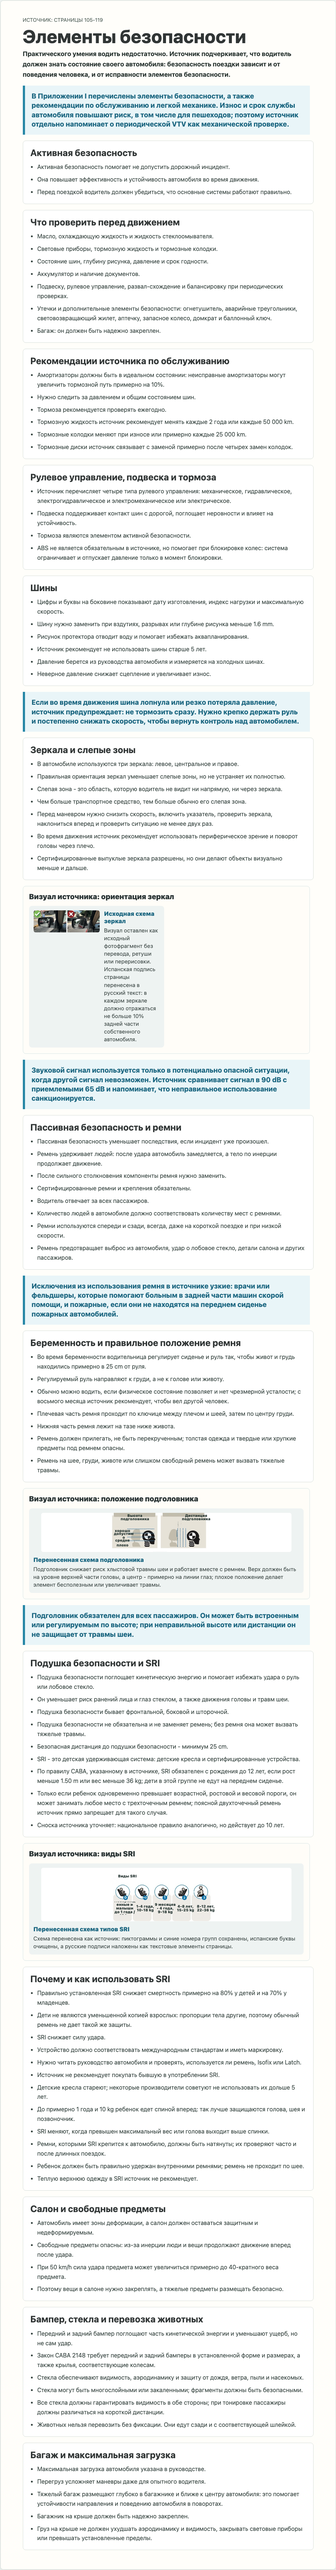
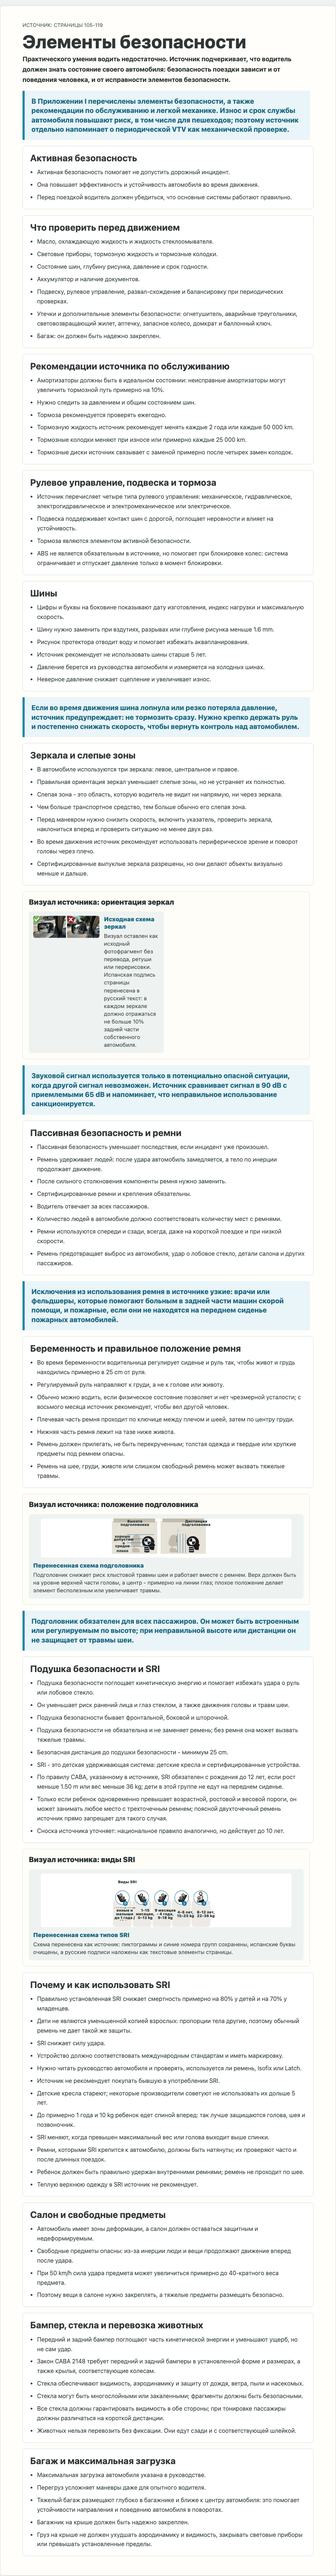
Fix Appendix I SRI plus-zero overlay range

Changed region(s): [[0.0614, 0.0, 0.8904, 0.997]]

diff --git a/src/data/manual-sections/app1-safety-elements.ts b/src/data/manual-sections/app1-safety-elements.ts
@@ -311,7 +311,7 @@ export const app1SafetyElementsSection: ManualGuideSectionContent = {
           russianOverlayLabels: [
             { id: "sri-title", textRu: "Виды SRI", xPct: 28, yPct: 9, widthPct: 13, heightPct: 10, tone: "dark-on-light" },
             { id: "sri-newborns", textRu: "Новорожденные и малыши до 1 года / 10 kg", xPct: 29.2, yPct: 64, widthPct: 8.5, heightPct: 24, tone: "dark-on-light" },
-            { id: "sri-group-0-plus", textRu: "1-4 года, 10-18 kg", xPct: 37.4, yPct: 64, widthPct: 8.5, heightPct: 24, tone: "dark-on-light" },
+            { id: "sri-group-0-plus", textRu: "1-15 месяцев, 0-13 kg", xPct: 37.4, yPct: 64, widthPct: 8.5, heightPct: 24, tone: "dark-on-light" },
             { id: "sri-group-1", textRu: "9 месяцев - 4 года, 9-18 kg", xPct: 45.4, yPct: 64, widthPct: 8.5, heightPct: 24, tone: "dark-on-light" },
             { id: "sri-group-2", textRu: "4-8 лет, 15-25 kg", xPct: 53.5, yPct: 64, widthPct: 8.5, heightPct: 24, tone: "dark-on-light" },
             { id: "sri-group-3", textRu: "8-12 лет, 22-36 kg", xPct: 61.6, yPct: 64, widthPct: 8.5, heightPct: 24, tone: "dark-on-light" }

diff --git a/specs/031-manual-document-completion/tasks.md b/specs/031-manual-document-completion/tasks.md
@@ -97,7 +97,7 @@ For each chapter-equivalent content PR:
 | Chapter 3 content | pages `57-88` | branch `codex/031-chapter-3`; PR #188, https://github.com/cucumberfalse/cabadrive/pull/188 | `49c145e9dd4f4661f99d05f79c3e55ed425d4155` | implementation content head `4f0c782505242b9cc8583af7644e5f6f44173254`; speed/highway review-fix content head `2c128758de15de388a03f090ad394e39f3c36377`; outside-CABA speed-table repair included at effective content head `f56c42d075dc92d61523301b1f84c3a33faf3a3e`; repeat Architect and Analyst validation passed for that effective head; finalizer-readable parser repair evidence head `60d366fd946841919f8740f27710d906b2a47d8d`; current/final PR head is verified by Orchestrator final guards/finalizer before merge | ready for final guards after process-memory-only row freshness repair for `PRRT_kwDOSX65IM6GzRmW`; post-effective commits are final-validation/process-memory evidence only; no Chapter 4+ content bundled | yes |
 | Chapter 4 content | pages `89-97` | branch `codex/031-chapter-4`; PR #189, https://github.com/cucumberfalse/cabadrive/pull/189 | `19fecc3a1a2ca4ab9273cdbe6833e7d6d5d7ef27` | implementation content head `2338c3a5e777cbd469f9ca23bcbbbf9dbbd4c62b`; first review-fix head before visual-fidelity repair `2f4aad4250fdd63e66495d515274293d2721a737`; prior validated effective content head `a8ecdac9daed66274ba51fb04ecbe47279aae2f6`; page-93 boundary review-fix and prior effective content head `17dd8db5872dc90586191b6e9c972cfbe681da7b`; refusal-procedure localization review-fix head `201693cc9e4a4a3e1313650c7f6ca57d613af1b8`; strict infographic visual-rule repair effective content head `9b5b74b9b19b756225ffd50b2ba1df4732c56ab3`; final-validation evidence transport head `528d8eab9e57b660096e95f6dcabc43a8750835f`; motorcycle-passenger alcohol-limit scope repair effective content head `3de005c1b46ea8b28b96b6ec46d4d51d61719dae`; final-validation evidence transport head before overlay-label repair `1c826ed8b518764749c4d146f7147fdf260f2146`; overlay-label visual-rule repair for Codex P2 `3352010484`; overlay-label mobile clipping repair for Review Agent comment `3352219633`; alcohol-effects localization repair for Codex P2 `3352233947`; sleep/fatigue remedy localization repair for Review Agent comment `3352327144`; broader learner-facing localization audit for Review Agent comment `3352354749`; current effective content head `4e819cfd80ebf09b4d3db560a6bc3b57766ef39a` | Chapter 4 content and review fixes for `PRRT_kwDOSX65IM6G1K3A`, `PRRT_kwDOSX65IM6G1LSI`, visual-fidelity thread `PRRT_kwDOSX65IM6G1aYu`, Codex review comment `3350790136`, Codex P2 comments `3351081820`, `3351219753`, `3351329538`, `3351663509`, `3352010484`, `3352233947`, and Review Agent comments `3352219633`, `3352327144`, and `3352354749` are implemented and locally verified in this PR follow-up; prior final validation/evidence for pre-repair heads including `3de005c1b46ea8b28b96b6ec46d4d51d61719dae`, `d3d712ce488560c3d3747cbc54d1489a84774cbe`, `2af2a57520f68f8090376699615a4cab41885d2d`, `fa568d5b1aec3e2e546e44d1ba43c39418ff731b`, and `adfcbbbdac50658c1a80ef8e22dd88554c579a5e` is superseded by fresh Architect validation for effective content head `4e819cfd80ebf09b4d3db560a6bc3b57766ef39a`; no Chapter 5+ content bundled | yes |
 | Chapter 5 content | pages `98-103` | branch `codex/031-chapter-5`; PR #190, https://github.com/cucumberfalse/cabadrive/pull/190 | `f3b756315141f859f097e6af47d088c16ccac910` | implementation content head `fa6983a6be8069b4bb4aaa51140a218c6ada3096`; Review Agent P2 `3352682015` localization repair head reported by IA handoff; automated Codex P2 visual/boundary repairs `3352716346` and `3352716350` head reported by IA handoff | ready PR open; Chapter 5 implementation, Review Agent P2 localization repair, and automated Codex visual/boundary repairs complete locally; fresh final validation is required on the new repair head; no Appendix/front-matter content bundled | yes |
-| Appendix I content | pages `104-122` | branch `codex/031-appendix-i`; PR #191, https://github.com/cucumberfalse/cabadrive/pull/191 | `b63639a20e413f339266e2e91ce63c377377230a` | implementation content head `e108ba86293b3ff0d3d5443aaf7f9b99f8d8d550`; first process-memory head `794a80c1bad67c7f94488e396ae357d36fc89963`; Review Agent P2 localization repair head `e90e3e516137bab021d5acaf64a07e2be7f8dd8a`; AI review SRI all-threshold/screenshot/title repair head `197971dc3ce4eac35357d5077c37e6bd5f59ffde`; tire-blowout page `109` repair head `77eefbf268236ba78a0d9f55e8de8f6001a7301c`; evidence-only head `43964bd8ecda9bc4d0cc842bd50c777d1a408270`; page `119` luggage/source-ownership repair head `2cc142de062425f4ebf2be56f95d73faa95ff43d`; page `119` top-level shared-ownership repair head `01c5db6158c992ed9098b50a3d323efabbe9bf9f`; mirror photo-only crop repair head `d27afdb68af4826a6645045ef27324ca24aad53f`; effective content head `7b8ffb3f58e8c91b660ea2d9f952c509ffff98f5` includes SRI `+0` overlay range repair; finalizer-readable process/evidence head `8f3eced213947d68dd644e6707ce6349054f93a1` | ready PR open; Appendix I implementation and review/AI fixes complete locally through page `119` shared source ownership, mirror photo-only crop, and SRI `+0` overlay range repair; prior Architect/Analyst validation for `77eefbf268236ba78a0d9f55e8de8f6001a7301c` is stale after post-validation product/content changes; fresh Architect validation passed at `2026-06-04T06:55:53Z` and fresh Analyst validation passed at `2026-06-04T07:00:37Z` for effective content head `7b8ffb3f58e8c91b660ea2d9f952c509ffff98f5`; finalizer-readable process/evidence head `8f3eced213947d68dd644e6707ce6349054f93a1` records final-validation evidence in `tasks.md` and `feature-request.md`; current/final PR head verification remains Orchestrator/finalizer-owned via read-only guard and `pnpm run pr:finalize -- --expected-head <actual-current-pr-head>` before merge; later post-effective commits must remain final-validation/process evidence only in `tasks.md` and `feature-request.md`; no Appendix II/III/IV or front-matter content bundled | yes |
+| Appendix I content | pages `104-122` | branch `codex/031-appendix-i`; PR #191, https://github.com/cucumberfalse/cabadrive/pull/191 | `b63639a20e413f339266e2e91ce63c377377230a` | implementation content head `e108ba86293b3ff0d3d5443aaf7f9b99f8d8d550`; first process-memory head `794a80c1bad67c7f94488e396ae357d36fc89963`; Review Agent P2 localization repair head `e90e3e516137bab021d5acaf64a07e2be7f8dd8a`; AI review SRI all-threshold/screenshot/title repair head `197971dc3ce4eac35357d5077c37e6bd5f59ffde`; tire-blowout page `109` repair head `77eefbf268236ba78a0d9f55e8de8f6001a7301c`; evidence-only head `43964bd8ecda9bc4d0cc842bd50c777d1a408270`; page `119` luggage/source-ownership repair head `2cc142de062425f4ebf2be56f95d73faa95ff43d`; page `119` top-level shared-ownership repair head `01c5db6158c992ed9098b50a3d323efabbe9bf9f`; mirror photo-only crop repair head `d27afdb68af4826a6645045ef27324ca24aad53f`; prior effective content head `7b8ffb3f58e8c91b660ea2d9f952c509ffff98f5`; finalizer-readable process/evidence head `8f3eced213947d68dd644e6707ce6349054f93a1` | ready PR open but final validation is stale after AI Review P2 `3354284239` SRI `+0` overlay product/content repair; Appendix I implementation and review/AI fixes now include page `119` shared source ownership, mirror photo-only crop, and corrected SRI `+0` overlay source range `1-15 месяцев, 0-13 kg`; prior Architect/Analyst validation for `77eefbf268236ba78a0d9f55e8de8f6001a7301c` and later fresh validation for `7b8ffb3f58e8c91b660ea2d9f952c509ffff98f5` are stale after this post-validation content change; current/final PR head verification remains Orchestrator/finalizer-owned via read-only guard and `pnpm run pr:finalize -- --expected-head <actual-current-pr-head>` before merge; no Appendix II/III/IV or front-matter content bundled | yes |
 | Appendix II content | pages `123-151` | pending | pending | pending | pending | yes |
 | Appendix III content | pages `152-183` | pending | pending | pending | pending | yes |
 | Appendix IV content | pages `184-200` | pending | pending | pending | pending | yes |
@@ -114,7 +114,7 @@ For each chapter-equivalent content PR:
 | Chapter 3 | `57-88` | One chapter PR covering `ch3-priority-of-rules`, `ch3-right-of-way`, `ch3-lights`, `ch3-speed`, `ch3-turns`, `ch3-overtaking`, `ch3-highways`, `ch3-adverse-conditions`, and `ch3-stopping-parking`; page `57` divider skipped | implemented in branch `codex/031-chapter-3`; ready PR #188 open with pushed speed/highway review-fix head `2c128758de15de388a03f090ad394e39f3c36377` |
 | Chapter 4 | `89-97` | One chapter PR covering `ch4-alcohol-drugs`, `ch4-sleep-fatigue`, `ch4-stress`, and `ch4-distractions`; page `89` divider skipped; page `93` shared by alcohol/drugs and sleep/fatigue; page `94` shared by sleep/fatigue and stress; page `95` shared by stress recommendations and distractions with direct distractions navigation starting on page `95` | ready PR #189 at https://github.com/cucumberfalse/cabadrive/pull/189 from branch `codex/031-chapter-4`; implementation content head `2338c3a5e777cbd469f9ca23bcbbbf9dbbd4c62b`; page-93 boundary, refusal-procedure localization, stress-localization, strict infographic visual-rule repairs, Codex P2 `3351663509` motorcycle-passenger alcohol-limit scope repair, Codex P2 `3352010484` overlay-label visual-rule repair, Review Agent comment `3352219633` overlay-label mobile clipping repair, Codex P2 `3352233947` alcohol-effects localization repair, Review Agent comment `3352327144` sleep/fatigue remedy localization repair, and Review Agent comment `3352354749` broader learner-facing localization audit repair are included at effective content head `4e819cfd80ebf09b4d3db560a6bc3b57766ef39a`; ready for Analyst final validation after Architect validation at this head and later evidence transport/current-head guard |
 | Chapter 5 | `98-103` | One chapter PR covering `ch5-attitude-types`, `ch5-equal-society`, `ch5-gender-violence-prevention`, and `ch5-anticipatory-efficient-driving`; page `98` divider skipped; page `99` shared by attitude types and equality; page `100` shared by equality and gender-violence support; page `101` shared by gender-violence support and preventive/efficient driving | ready PR #190 open at https://github.com/cucumberfalse/cabadrive/pull/190 from branch `codex/031-chapter-5`; implementation content head `fa6983a6be8069b4bb4aaa51140a218c6ada3096`; current PR head reported by IA handoff |
-| Appendix I | `104-122` | One chapter-equivalent PR covering `app1-safety-elements`, `app1-other-required-safety-elements`, and `app1-recommended-safety-elements`; page `104` divider skipped; page `119` shared by safety-elements luggage/max-load masks and other-required heading/content | ready PR #191 open at https://github.com/cucumberfalse/cabadrive/pull/191 from branch `codex/031-appendix-i`; effective content head `7b8ffb3f58e8c91b660ea2d9f952c509ffff98f5` includes implementation, localization repairs, SRI all-threshold/title/screenshot repair, tire-blowout page `109` repair, page `119` shared ownership repair, mirror photo-only crop repair, and SRI `+0` overlay range repair; fresh Architect validation passed at `2026-06-04T06:55:53Z` and fresh Analyst validation passed at `2026-06-04T07:00:37Z`; finalizer-readable process/evidence head `8f3eced213947d68dd644e6707ce6349054f93a1` records final-validation evidence in `tasks.md` and `feature-request.md`; current/final PR head verification remains Orchestrator/finalizer-owned via read-only guard and expected-head finalizer before merge |
+| Appendix I | `104-122` | One chapter-equivalent PR covering `app1-safety-elements`, `app1-other-required-safety-elements`, and `app1-recommended-safety-elements`; page `104` divider skipped; page `119` shared by safety-elements luggage/max-load masks and other-required heading/content | ready PR #191 open at https://github.com/cucumberfalse/cabadrive/pull/191 from branch `codex/031-appendix-i`; prior effective content head `7b8ffb3f58e8c91b660ea2d9f952c509ffff98f5` includes implementation, localization repairs, SRI all-threshold/title/screenshot repair, tire-blowout page `109` repair, page `119` shared ownership repair, mirror photo-only crop repair, and earlier SRI `+0` overlay range repair; fresh Architect validation at `2026-06-04T06:55:53Z` and fresh Analyst validation at `2026-06-04T07:00:37Z` are stale after AI Review P2 `3354284239` corrected the SRI `+0` overlay to source range `1-15 месяцев, 0-13 kg`; current/final PR head verification remains Orchestrator/finalizer-owned via read-only guard and expected-head finalizer before merge |
 | Appendix II | `123-151` | One chapter-equivalent PR | pending |
 | Appendix III | `152-183` | One chapter-equivalent PR | pending |
 | Appendix IV | `184-200` | One chapter-equivalent PR; source-as-is signs/markings | pending |
@@ -209,8 +209,10 @@ For each chapter-equivalent content PR:
 - Review-fix visual/source scope, PR #191 `3353715772`: this follow-up changed only registry metadata, source-fidelity checker assertions, focused tests, and process memory. No runtime learner DOM, screenshots, source crops, source page images, photos, traffic signs, road markings, source-as-is mirror photo, or transferred infographic assets were modified; the intentionally untracked duplicate page `119` safety-elements crop remains preserved and unstaged.
[1 lines of base64/hex data omitted]
 - AI Review-fix visual/source scope, PR #191 `3353724247`: only the mirror source/runtime crop and `app1-safety-elements` desktop/mobile screenshots were regenerated. The photo pixels were not translated, retouched, relabeled, recolored, redrawn, masked, inpainted, or otherwise modified; the change removes surrounding non-photo Spanish page text by cropping to the protected source visual. No traffic signs, road markings, headrest/SRI transferred infographics, page source renders, or unrelated Appendix I assets were modified. The intentionally untracked duplicate page `119` safety-elements crop remains preserved and unstaged.
-- AI Review-fix decision, PR #191 automated comment `3353854332`: the SRI transferred-infographic Russian overlay label for source group `+0` now preserves the full official source range `1-4 años` / `10-18 kg` as `1-4 года, 10-18 kg`; the stale shortened label `1 год, 10-18 kg` is rejected by focused tests.
+- AI Review-fix decision, PR #191 automated comment `3353854332`: the earlier SRI transferred-infographic Russian overlay label for source group `+0` was changed from the stale shortened label `1 год, 10-18 kg` to `1-4 года, 10-18 kg`; this later proved to be the wrong source-card range and is superseded by AI Review-fix `3354284239`.
 - AI Review-fix visual/source scope, PR #191 `3353854332`: this follow-up changes only selectable Russian overlay text/evidence for the transferred SRI infographic. The SRI PNG pixels, source crop, source page render, pictograms, blue group numerals, geometry, and existing glyph-level Spanish cleanup/background restoration remain unchanged; no photo, traffic sign, road marking, or unrelated Appendix I visual asset was modified. The intentionally untracked duplicate page `119` safety-elements crop remains preserved and unstaged.
+- AI Review-fix decision, PR #191 automated comment `3354284239`: the page `115` x5 source crop `page-115-sri-types-source-crop.jpg` was visually rechecked and the `+0` rear-facing card reads approximately `1 a 15 meses` and `0 a 13 kg`. The `sri-group-0-plus` selectable Russian DOM overlay now reads `1-15 месяцев, 0-13 kg`, and focused tests reject the stale toddler/group-1 range `1-4 года, 10-18 kg` for that overlay.
+- AI Review-fix visual/source scope, PR #191 `3354284239`: this follow-up changed only selectable Russian overlay text, generated registry label metadata, focused tests, `app1-safety-elements` desktop/mobile screenshots, and process memory. Photos, traffic signs, road markings, source crops, source page images, protected source-as-is visuals, and transferred infographic PNG pixels were not modified; the SRI PNG remains source-crop-based with `visibleSpanish=false`, `1220x260`, and unchanged source-crop provenance. Prior final Architect/Analyst validation for effective content head `7b8ffb3f58e8c91b660ea2d9f952c509ffff98f5` is stale because this is a post-validation product/content change. The intentionally untracked duplicate page `119` safety-elements crop remains preserved and unstaged.
 - Review-fix decision, PR #191 Review Agent process-memory comment `3353916711`: the Appendix I Cycle PR Set row and Source Unit Inventory row now record current effective content head `7b8ffb3f58e8c91b660ea2d9f952c509ffff98f5`, including the recent page `119` source-ownership/shared-ownership repairs, mirror photo-only crop repair, and SRI `+0` overlay range repair. This is process-memory only after the effective content head; fresh Architect validation for `7b8ffb3f58e8c91b660ea2d9f952c509ffff98f5` is recorded at `2026-06-04T06:55:53Z`.
 - Appendix I current validation/feedback state after Review Agent process-memory comment `3353916711`: prior Architect/Analyst final validation for effective content head `77eefbf268236ba78a0d9f55e8de8f6001a7301c` is stale because subsequent page `119`, mirror, and SRI overlay product/content changes landed after it. No unresolved Implementation Agent feedback or known issue remains from this IA follow-up; fresh Architect validation for effective content head `7b8ffb3f58e8c91b660ea2d9f952c509ffff98f5` is recorded at `2026-06-04T06:55:53Z`.
 - Validation staleness notice, PR #190: Review Agent comment `3352682015` required a post-PR non-evidence content/test/process repair after current head `a21074d42a3c10466288856a55c4e7207b0c3386`; therefore any final validation or final-validation evidence for `a21074d42a3c10466288856a55c4e7207b0c3386` is stale for finalization. The next pushed localization repair head must become the new effective content head and receive fresh Architect then Analyst final validation before finalization.
@@ -422,7 +424,7 @@ For each chapter-equivalent content PR:
 - PR #191 page `119` luggage-boundary AI Review-fix broader verification, `2026-06-04T05:24:15Z`: `node scripts/check-feature-memory.mjs --worktree` passed; `git diff --check` passed; and full `pnpm run preflight` passed, including feature-memory gate, repository baseline check, content validation with `sharedSourcePages: [55,93,94,95,99,100,101,119]`, `389` unit tests, production build, service-worker generation, and `78` Playwright tests with `0` failures. The existing Vite large chunk warning appeared during builds and remains non-fatal/pre-existing.
 - PR #191 page `119` registry shared-ownership Review Agent follow-up verification, `2026-06-04T05:31:48Z`: `node scripts/manual-guide-source-fidelity.mjs` passed with registry/evidence shared-page parity and `sharedSourcePages: [55,93,94,95,99,100,101,119]`; `node --test tests/content-manual-guide-chapters.test.mjs` passed with `80` tests and `0` failures; `pnpm exec tsc --noEmit` passed; `node scripts/check-feature-memory.mjs --worktree` passed; `git diff --check` passed; and full `pnpm run preflight` passed, including feature-memory gate, repository baseline check, content validation, `389` unit tests, production build, service-worker generation, and `78` Playwright tests with `0` failures. No screenshot regeneration was needed because the visible runtime DOM did not change.
[3 lines of base64/hex data omitted]
 - Protected visual confirmation: no Appendix I photo, traffic sign, road-marking visual, source page image, or transferred infographic was translated, relabeled, recolored, retouched, masked, inpainted, reconstructed, or redrawn. The mirror validation/runtime crop was narrowed to the protected photo collage only to exclude surrounding Spanish body text; the photo crop itself remains source-as-is and byte-identical between validation and runtime. The only Appendix I Spanish cleanup is the headrest/SRI transferred-infographic glyph cleanup from source crops.
 - Final handoff evidence: `git diff --cached --check` is run before each commit, and the final pushed PR head is reported by Implementation Agent handoff.
 
@@ -728,7 +730,7 @@ For each chapter-equivalent content PR:
 - Architect validation: finalizer-readable process/evidence head 8f3eced213947d68dd644e6707ce6349054f93a1 is final-validation evidence-only after effective content head 7b8ffb3f58e8c91b660ea2d9f952c509ffff98f5; post-effective delta is limited to tasks.md and feature-request.md process memory, and current/final PR head verification remains Orchestrator/finalizer-owned before merge.
 - Architect validation: PR #191 Appendix I scope validated for pages 104-122 only; page 104 is divider-only; app1-safety-elements owns pages 105-118 plus page 119 Equipaje/luggage and maximum-load paragraphs before the next heading; app1-other-required-safety-elements starts on page 119 at Otros elementos de seguridad obligatorios mask 10 and continues page 120; app1-recommended-safety-elements covers pages 121-122; top-level and evidence sharedSourcePageOwnership include page 119.
 - Architect validation: strict visual requirements are satisfied for Appendix I: x5/equivalent high-resolution source evidence is recorded; protected photos, signs, and road markings are unmodified; the mirror runtime visual is cropped to the protected photo collage only and remains source-as-is/byte-identical between runtime and validation crop with no visible Spanish body text in the image; transferred headrest and SRI infographics remain source-image based with glyph/antialias-level Spanish cleanup, restored background, no redraw or broad plates, preserved source structure/numerals/pictograms, and selectable Russian labels/explanation.
-- Architect validation: SRI +0 overlay label preserves the source range as 1-4 года, 10-18 kg while SRI PNG/source-crop pixels remain unchanged.
+- Architect validation stale after AI Review P2 `3354284239`: the previous SRI +0 overlay validation text named `1-4 года, 10-18 kg`, but that range belongs to another source card. The current IA follow-up corrects the selectable overlay to `1-15 месяцев, 0-13 kg` while leaving SRI PNG/source-crop pixels unchanged.
 - Architect validation: review and AI fixes are satisfied for Russian learner-facing localization, exact Elementos de seguridad recomendables traceability, SRI all-threshold rule, screenshot refreshes, page 109 Pinchaduras tire-blowout guidance, page 119 shared ownership/registry parity, mirror photo-only crop, and SRI +0 overlay range.
 - Architect validation: required non-AI checks were green before final-validation evidence transport, and finalizer-readable process/evidence head 8f3eced213947d68dd644e6707ce6349054f93a1 is final-validation evidence-only in tasks.md and feature-request.md; Review Agent pass 4425379515 verified the prior process-memory-only delta, refreshed Architect/Analyst validation evidence addresses AI Review process comments 3353756978, 3353929476, 3354062899 plus Review Agent process-memory issue 3353916711, and actual current/final PR head verification remains Orchestrator-owned through read-only guard and finalizer expected-head before merge.
 - Architect validation: no unresolved Implementation Agent feedback remains for PR #191 Appendix I scope; no unresolved known issue lacks owner decision; no Analyst feedback requires Architect action.
@@ -806,9 +808,9 @@ For each chapter-equivalent content PR:
 
 ## Implementation Agent Feedback
 
-- Implementation Agent feedback for Appendix I scope after Review Agent P2 comments `3353239049`, `3353239050`, `3353239052`, `3353715772`, and `3353916711`, and automated AI Review comments `3353344745`, `3353281144`, `3353238651`, `3353459655`, `3353643677`, `3353724247`, and `3353854332`: fully disposed after fresh Architect final validation for effective content head `7b8ffb3f58e8c91b660ea2d9f952c509ffff98f5`. Page `104` is divider-only; pages `105-122` are implemented as the assigned Appendix I content slice; no Appendix II/III/IV/front-matter or unrelated corrections are bundled. Learner-facing Appendix I text is localized to Russian except official abbreviations/units; the SRI regular-seat restriction now requires age, height, and weight thresholds to all be exceeded; the page `109` tire-blowout callout now advises no immediate braking, firm steering, and gradual slowing; page `119` luggage/max-load guidance is owned by `app1-safety-elements` before the `Otros elementos de seguridad obligatorios` heading, and the other-required route starts at that heading with top-level shared-page ownership recorded. Source Spanish remains in `sourceTextEs`/evidence; recommended-safety traceability uses `Elementos de seguridad recomendables`. Protected mirror photo is cropped source-as-is to the mirror photo collage only with Spanish body/caption text translated outside the image; headrest and SRI infographics are source-crop-based transferred PNGs with glyph/antialias-level Spanish cleanup, no readable Spanish, preserved source structure/numerals/pictograms, no broad plate-like artifacts, and selectable Russian labels/explanation, including the corrected SRI `+0` overlay range `1-4 года, 10-18 kg`. Local untracked duplicate `content/validation/manual-guide/app1-safety-elements/page-119-safety-elements-source-crop.jpg` is preserved but not staged because the tracked same-hash page `119` crop supplies shared-page evidence. Architect disposition: disposed; no other Appendix I product action requested.
+- Implementation Agent feedback for Appendix I scope after Review Agent P2 comments `3353239049`, `3353239050`, `3353239052`, `3353715772`, and `3353916711`, and automated AI Review comments `3353344745`, `3353281144`, `3353238651`, `3353459655`, `3353643677`, `3353724247`, `3353854332`, and `3354284239`: prior fresh Architect final validation for effective content head `7b8ffb3f58e8c91b660ea2d9f952c509ffff98f5` is stale after the SRI `+0` overlay content repair. Page `104` is divider-only; pages `105-122` are implemented as the assigned Appendix I content slice; no Appendix II/III/IV/front-matter or unrelated corrections are bundled. Learner-facing Appendix I text is localized to Russian except official abbreviations/units; the SRI regular-seat restriction now requires age, height, and weight thresholds to all be exceeded; the page `109` tire-blowout callout now advises no immediate braking, firm steering, and gradual slowing; page `119` luggage/max-load guidance is owned by `app1-safety-elements` before the `Otros elementos de seguridad obligatorios` heading, and the other-required route starts at that heading with top-level shared-page ownership recorded. Source Spanish remains in `sourceTextEs`/evidence; recommended-safety traceability uses `Elementos de seguridad recomendables`. Protected mirror photo is cropped source-as-is to the mirror photo collage only with Spanish body/caption text translated outside the image; headrest and SRI infographics are source-crop-based transferred PNGs with glyph/antialias-level Spanish cleanup, no readable Spanish, preserved source structure/numerals/pictograms, no broad plate-like artifacts, and selectable Russian labels/explanation, including the current corrected SRI `+0` overlay range `1-15 месяцев, 0-13 kg`. Local untracked duplicate `content/validation/manual-guide/app1-safety-elements/page-119-safety-elements-source-crop.jpg` is preserved but not staged because the tracked same-hash page `119` crop supplies shared-page evidence. Architect disposition: stale pending fresh validation after this IA follow-up; no other Appendix I product action requested.
 - Prior Architect disposition for PR #191 at `77eefbf268236ba78a0d9f55e8de8f6001a7301c` is stale after post-validation page `119`, mirror, and SRI overlay content repairs; superseded by fresh Architect validation for effective content head `7b8ffb3f58e8c91b660ea2d9f952c509ffff98f5`.
-- No unresolved Implementation Agent feedback. Architect disposition: disposed; no action needed for PR #191 at `7b8ffb3f58e8c91b660ea2d9f952c509ffff98f5`.
+- No unresolved Implementation Agent product feedback remains beyond the expected need for fresh Architect/Analyst validation after AI Review P2 `3354284239`; prior disposition for PR #191 at `7b8ffb3f58e8c91b660ea2d9f952c509ffff98f5` is stale for finalization.
 - Implementation Agent feedback for Chapter 5 scope after Review Agent comment `3352682015` and automated Codex comments `3352716346` / `3352716350`: none unresolved. Page `98` is divider-only; pages `99-103` are implemented as the assigned Chapter 5 content slice; page `99`, page `100`, and page `101` shared boundaries are recorded and tested; page `101` now coherently records that gender-violence support masks `11-25` continue after the preventive-driving heading at mask `09`; protected page `103` photo/quote remains source-as-is with Russian explanation outside the image; the page `100` mobility infographic is a source-crop-based transferred PNG with glyph-letter-level Spanish cleanup, `visibleSpanish=false`, source-crop provenance, cleaned `54%`/`50%`/`30%` row glyph fragments, and selectable Russian DOM labels over the cleaned infographic surface; the mixed-language preventive-driving title is localized to Russian and covered by regression tests. No Appendix/front-matter or unrelated content is bundled. Architect disposition: no action requested.
 - No unresolved Implementation Agent feedback. Architect disposition: disposed; no action needed for PR #190 at `46132199fb12a2590032b81d6c9b9ebc86efab44`.
 - Implementation Agent feedback for Chapter 4 scope after PR #189 review fixes through Review Agent comment `3352354749`: fully disposed. Architect disposition: disposed; no action needed for PR #189 at `4e819cfd80ebf09b4d3db560a6bc3b57766ef39a`. Page `89` remains divider-only; pages `90-97` are implemented as the assigned Chapter 4 content slice; page `93` alcohol/drugs-to-sleep/fatigue boundary, page `94` sleep/fatigue-to-stress boundary, and page `95` stress-to-distractions/direct-route boundary are recorded and tested. Visual/source-fidelity evidence keeps the page `90` drug-test photo and page `97` photo/quote as protected source-as-is x5 runtime crops with Russian learner explanation outside images, while the page `91` alcohol-limit and page `95` distraction-panel infographics are source-crop-based transferred PNGs with glyph-letter-level Spanish cleanup, `visibleSpanish=false`, source-crop provenance, selectable Russian labels over the cleaned infographic surfaces, and selectable Russian explanation/table content outside images. PR #189 review fixes for alcohol-limit rows, including the `acompañantes en motovehículos` legal scope, sleep/fatigue Russian wording, visual-fidelity thread `PRRT_kwDOSX65IM6G1aYu`, Codex review comments `3350790136`, `3351081820`, `3351219753`, `3351329538`, `3351663509`, `3352010484`, `3352233947`, and Review Agent comments `3352219633`, `3352327144`, and `3352354749` are implemented, locally verified, and included at the validated effective content head.
@@ -1858,7 +1860,7 @@ Architect validation evidence: PR #191 Appendix I scope covers source pages 104-
 
 Architect validation evidence: Strict visual rules are satisfied for Appendix I: x5/equivalent high-resolution source evidence is recorded; protected photos, signs, and road markings remain unmodified; the mirror runtime visual is cropped to the protected photo collage only and remains source-as-is/byte-identical between runtime and validation crop with no visible Spanish body text in the image; transferred headrest and SRI infographics are source-image based with glyph/antialias-level Spanish cleanup, restored background, no redraw or broad plates, preserved source structure/numerals/pictograms, and selectable Russian labels/explanation.
 
-Architect validation evidence: SRI +0 overlay label preserves the source range as 1-4 года, 10-18 kg while SRI PNG/source-crop pixels remain unchanged.
+Architect validation evidence stale after AI Review P2 `3354284239`: prior SRI +0 overlay validation named `1-4 года, 10-18 kg`, but the page 115 source crop shows the +0 card as approximately `1 a 15 meses`, `0 a 13 kg`. The current IA follow-up corrects the selectable overlay to `1-15 месяцев, 0-13 kg` while SRI PNG/source-crop pixels remain unchanged.
 
 Architect validation evidence: Review and AI fixes are disposed for Appendix I: Russian learner-facing localization, exact Elementos de seguridad recomendables traceability, SRI all-threshold rule, screenshot refreshes, page 109 Pinchaduras tire-blowout guidance, page 119 shared ownership/registry parity, mirror photo-only crop, and SRI +0 overlay range are included at effective content head 7b8ffb3f58e8c91b660ea2d9f952c509ffff98f5.
 
